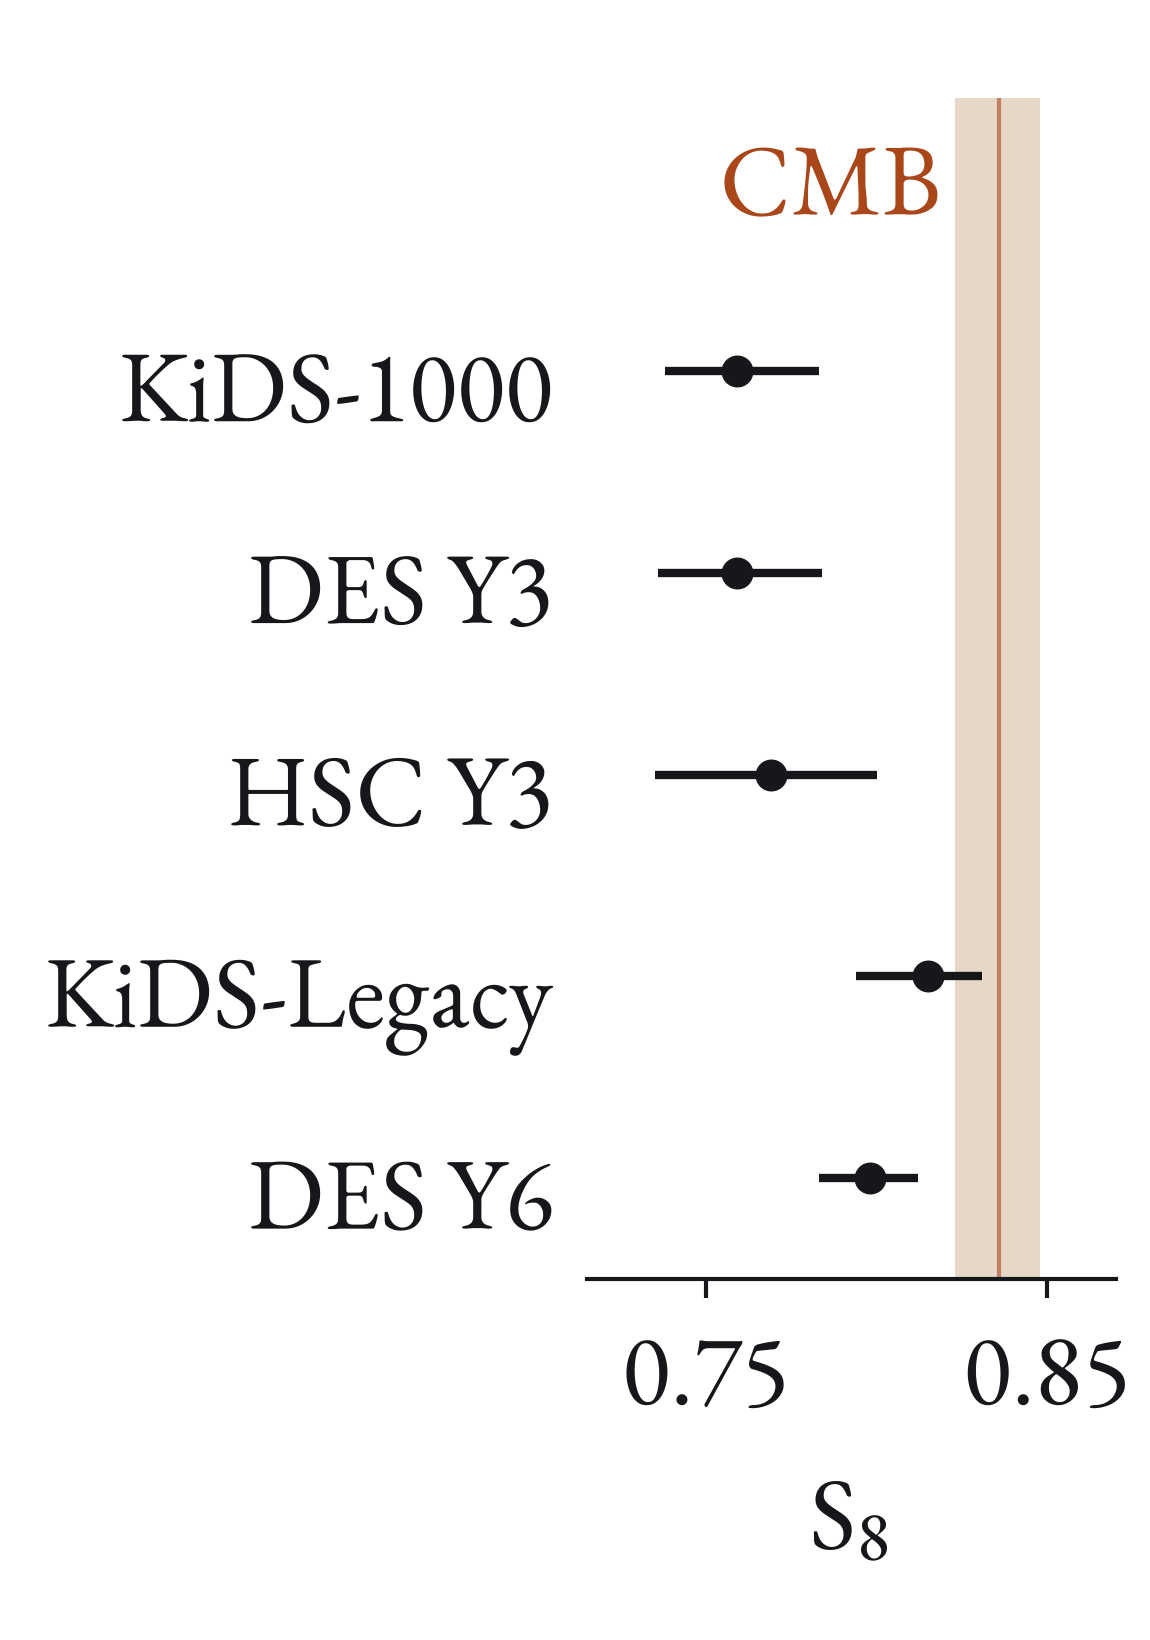
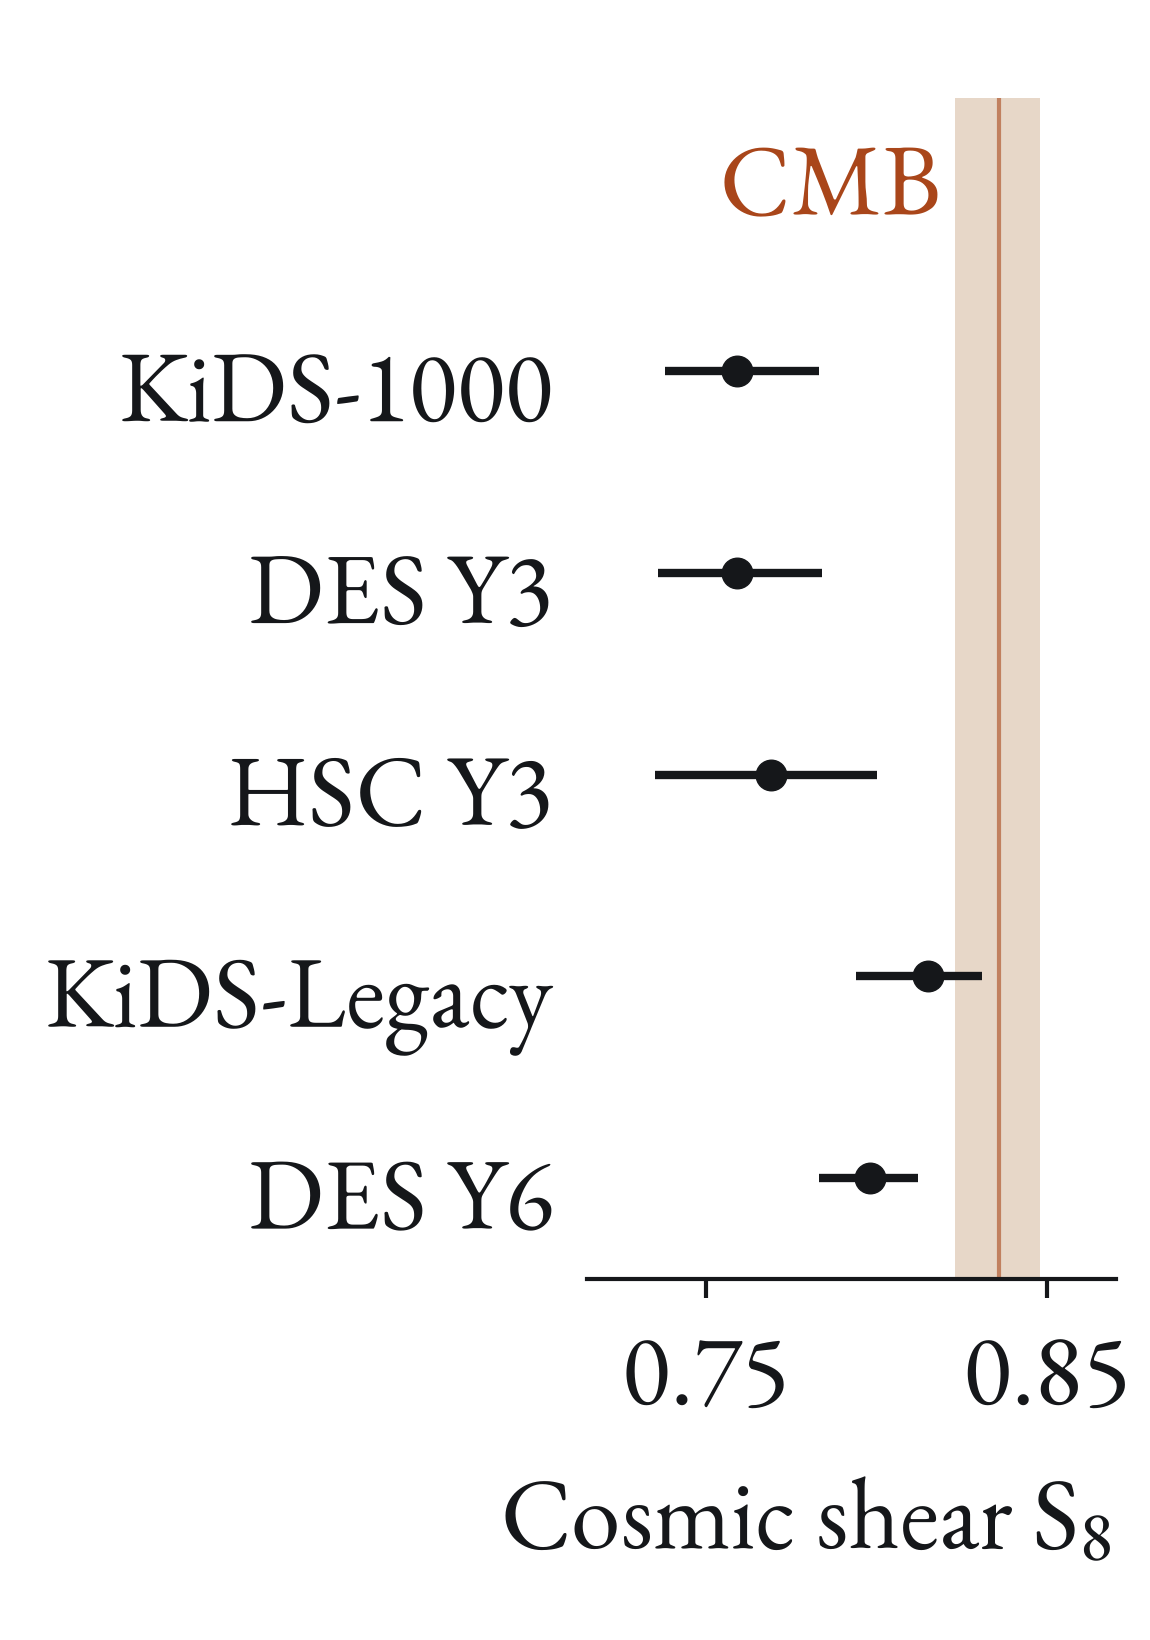
S8 whiskers labelled 'Cosmic shear S8' (portrait label right-aligned); Paper I credits Hervas-Peters et al. above the catalog numbers, at their size
Claude-Session: https://claude.ai/code/session_01JK7o9DxhuZeN72Mpd2Q7Du

Changed region(s): [[0.7, 0.9018, 0.9739, 0.964], [0.4565, 0.9018, 0.6696, 0.964], [0.4261, 0.9018, 0.4565, 0.9329]]

diff --git a/index.html b/index.html
@@ -383,8 +383,8 @@ Not the same split as the paper: "late-type" here is the morphology class of the
       <section>
         <h2>Paper I: a shape catalog of 61 million galaxies in the northern sky</h2>
         <img class="plot" src="images/paper1_neff_map.png" alt="Map of the effective source density over the UNIONS-3500 footprint, between about 4.5 and 8 galaxies per square arcminute" style="position:absolute;left:40px;top:112px;width:700px;height:467px;">
-        <p class="caption" style="position:absolute;left:40px;top:585px;width:700px;margin:0;">Hervas-Peters et al. 2026</p>
-        <div class="textcol" style="position:absolute;left:780px;top:152px;width:460px;"><p class="num">3648 deg²</p>
+        <div class="textcol" style="position:absolute;left:780px;top:152px;width:460px;"><p class="num" style="color:var(--accent);">Hervas-Peters et al. 2026</p>
+    <p class="num">3648 deg²</p>
     <p class="num">$n_{\rm eff} = 4.96$ arcmin$^{-2}$</p>
     <p class="num">$\sigma_\epsilon = 0.27$</p>
     <p class="accent">Catalog to be published on acceptance (!)</p></div>

diff --git a/figures/s8_landscape.py b/figures/s8_landscape.py
@@ -38,7 +38,7 @@ def whisker(ax, rows, xlim, ms=22):
     ax.set_ylim(len(rows) - 0.5, -1.35)
     ax.set_xlim(*xlim)
     ax.spines["left"].set_visible(False)
-    ax.set_xlabel(r"$S_8$", labelpad=10)
+    ax.set_xlabel(r"Cosmic shear $S_8$", labelpad=10)
 
 
 def landscape(map_png, out):
@@ -72,6 +72,7 @@ def stage3_whisker():
         ax = fig.add_axes([0.51, 0.22, 0.46, 0.72])
         whisker(ax, [(n,v,l,h,INK) for n,v,l,h in STAGE3], (0.715,0.87))
         ax.texts[0].set_fontsize(72)
+        ax.xaxis.label.set_x(1.0); ax.xaxis.label.set_horizontalalignment('right')
         ax.set_xticks([0.75,0.85])
         fig.canvas.draw()
         for text in [*ax.get_yticklabels(), *ax.get_xticklabels(), ax.xaxis.label, *ax.texts]:
